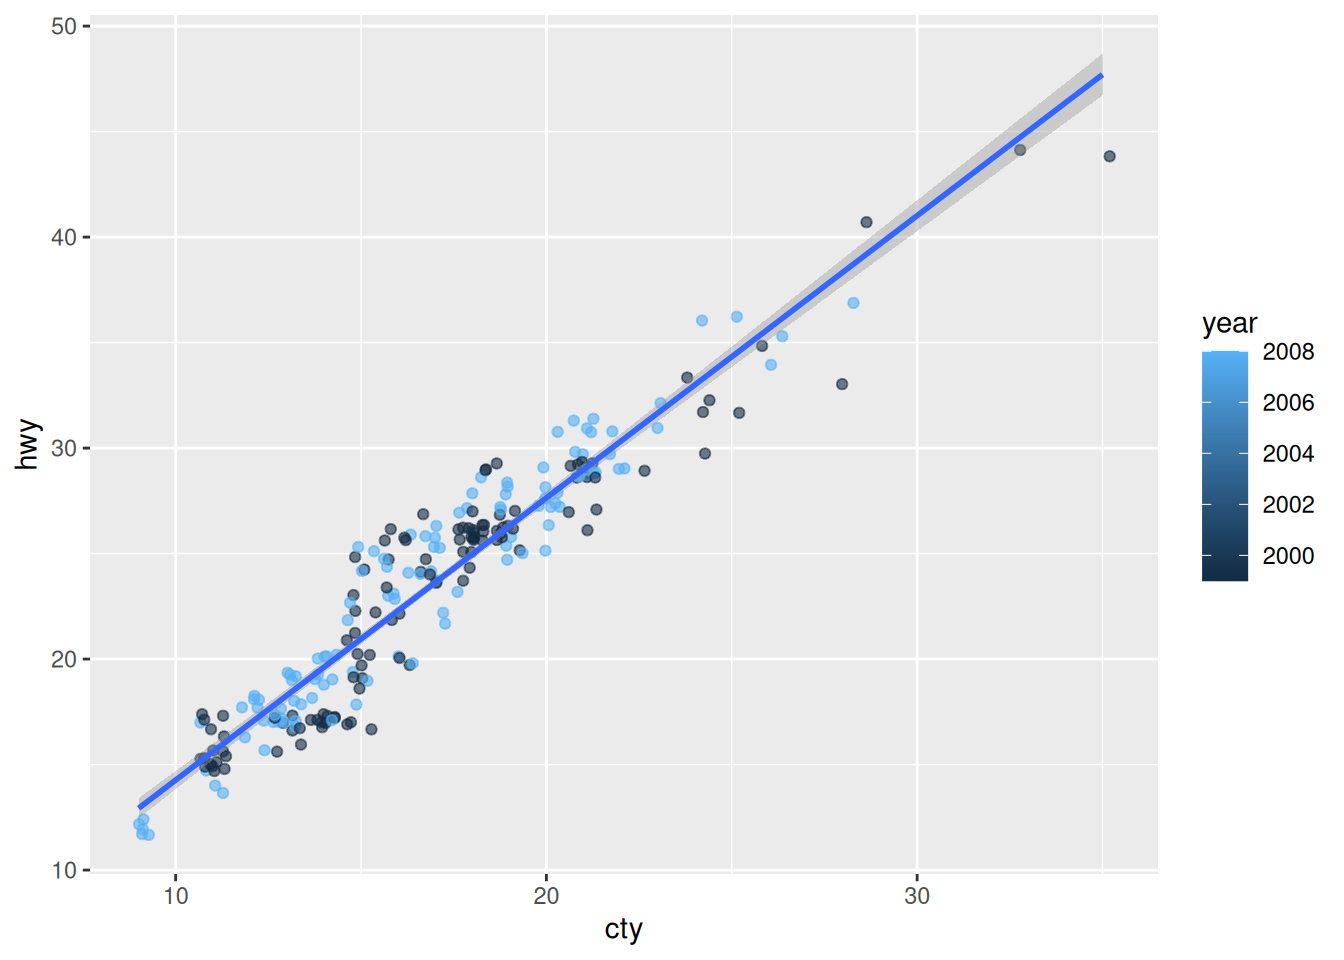
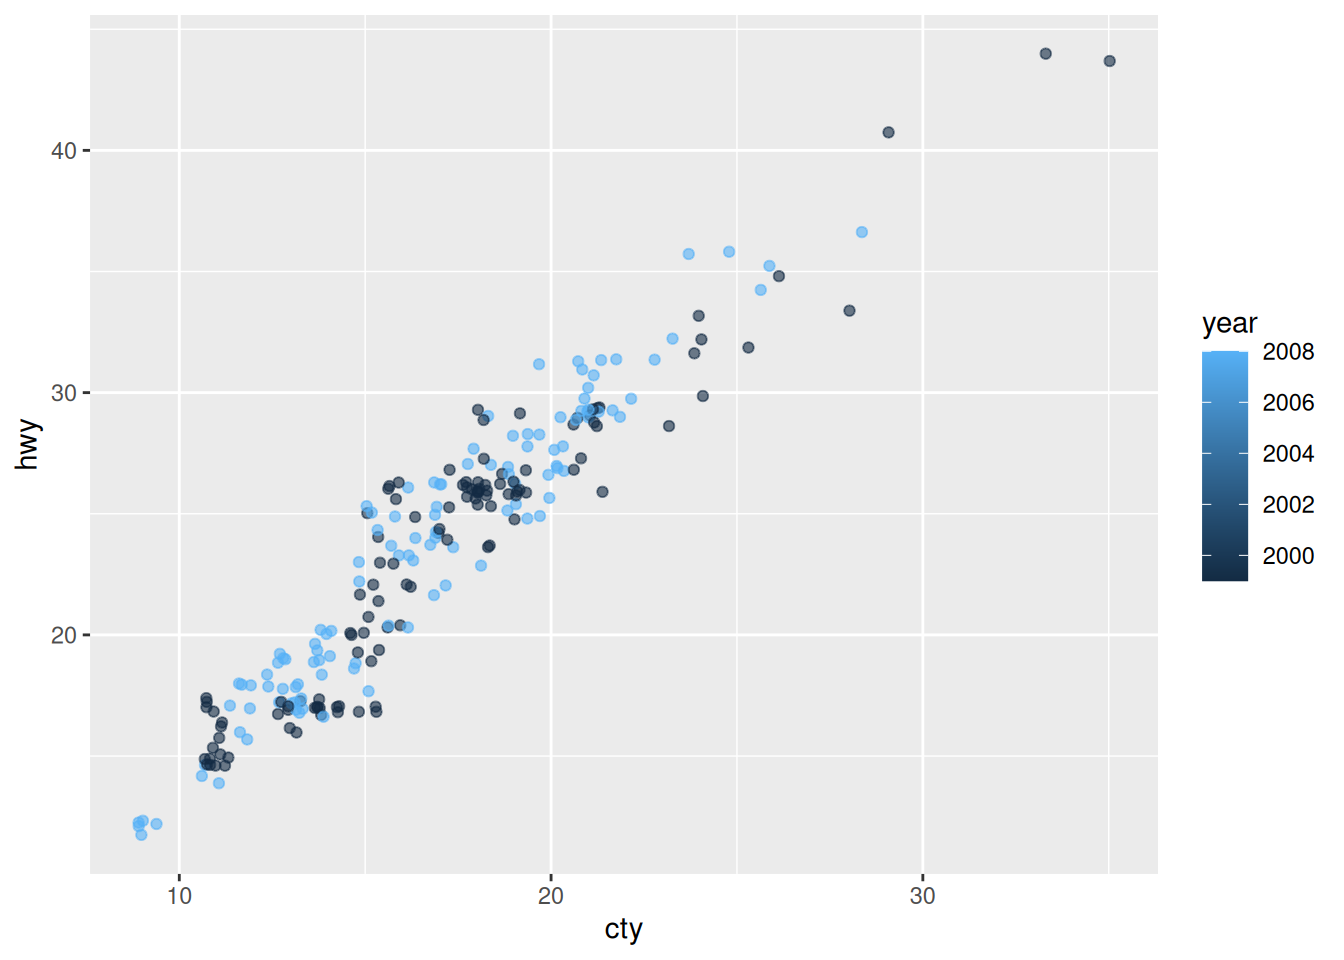
test

diff --git a/docs/posts/ggplot_work/index.html b/docs/posts/ggplot_work/index.html
@@ -192,7 +192,7 @@ pre > code.sourceCode > span > a:first-child::before { text-decoration: underlin
 
 
 
-<p>This week, I took a week long course on R. We spent our time learning and coding with ggplot.</p>
+<p>I took a week long course on R. We spent our time learning and coding with ggplot.</p>
 <div class="cell">
 <div class="code-copy-outer-scaffold"><div class="sourceCode cell-code" id="cb1"><pre class="sourceCode r code-with-copy"><code class="sourceCode r"><span id="cb1-1"><a href="#cb1-1" aria-hidden="true" tabindex="-1"></a><span class="fu">library</span>(ggplot2)</span>
 <span id="cb1-2"><a href="#cb1-2" aria-hidden="true" tabindex="-1"></a></span>
@@ -218,24 +218,34 @@ pre > code.sourceCode > span > a:first-child::before { text-decoration: underlin
 <span id="cb3-3"><a href="#cb3-3" aria-hidden="true" tabindex="-1"></a>  <span class="at">mapping =</span> <span class="fu">aes</span>(</span>
 <span id="cb3-4"><a href="#cb3-4" aria-hidden="true" tabindex="-1"></a>    <span class="at">x =</span> cty,</span>
 <span id="cb3-5"><a href="#cb3-5" aria-hidden="true" tabindex="-1"></a>    <span class="at">y =</span> hwy,</span>
-<span id="cb3-6"><a href="#cb3-6" aria-hidden="true" tabindex="-1"></a>    <span class="at">color =</span> year</span>
+<span id="cb3-6"><a href="#cb3-6" aria-hidden="true" tabindex="-1"></a>    <span class="at">color =</span> year,</span>
 <span id="cb3-7"><a href="#cb3-7" aria-hidden="true" tabindex="-1"></a>  ) </span>
-<span id="cb3-8"><a href="#cb3-8" aria-hidden="true" tabindex="-1"></a>) <span class="sc">+</span> <span class="fu">geom_point</span>(<span class="at">position =</span> <span class="st">"jitter"</span>, <span class="at">alpha =</span> <span class="fl">0.6</span>) <span class="sc">+</span> <span class="fu">geom_smooth</span>(<span class="at">method =</span> <span class="st">"lm"</span>)</span></code></pre></div><button title="Copy to Clipboard" class="code-copy-button"><i class="bi"></i></button></div>
-<div class="cell-output cell-output-stderr">
-<pre><code>`geom_smooth()` using formula = 'y ~ x'</code></pre>
-</div>
-<div class="cell-output cell-output-stderr">
-<pre><code>Warning: The following aesthetics were dropped during statistical transformation:
-colour.
-ℹ This can happen when ggplot fails to infer the correct grouping structure in
-  the data.
-ℹ Did you forget to specify a `group` aesthetic or to convert a numerical
-  variable into a factor?</code></pre>
-</div>
+<span id="cb3-8"><a href="#cb3-8" aria-hidden="true" tabindex="-1"></a>) <span class="sc">+</span> <span class="fu">geom_point</span>(<span class="at">position =</span> <span class="st">"jitter"</span>, <span class="at">alpha =</span> <span class="fl">0.6</span>) </span></code></pre></div><button title="Copy to Clipboard" class="code-copy-button"><i class="bi"></i></button></div>
 <div class="cell-output-display">
 <div>
 <figure class="figure">
 <p><img src="index_files/figure-html/unnamed-chunk-1-1.png" class="img-fluid figure-img" width="672"></p>
+</figure>
+</div>
+</div>
+</div>
+<div class="cell">
+<div class="code-copy-outer-scaffold"><div class="sourceCode cell-code" id="cb4"><pre class="sourceCode r code-with-copy"><code class="sourceCode r"><span id="cb4-1"><a href="#cb4-1" aria-hidden="true" tabindex="-1"></a><span class="fu">library</span>(ggplot2)</span>
+<span id="cb4-2"><a href="#cb4-2" aria-hidden="true" tabindex="-1"></a></span>
+<span id="cb4-3"><a href="#cb4-3" aria-hidden="true" tabindex="-1"></a><span class="fu">ggplot</span>(</span>
+<span id="cb4-4"><a href="#cb4-4" aria-hidden="true" tabindex="-1"></a>  <span class="at">data =</span> mpg,</span>
+<span id="cb4-5"><a href="#cb4-5" aria-hidden="true" tabindex="-1"></a>  <span class="at">mapping =</span> <span class="fu">aes</span>(</span>
+<span id="cb4-6"><a href="#cb4-6" aria-hidden="true" tabindex="-1"></a>    <span class="at">x =</span> cty,</span>
+<span id="cb4-7"><a href="#cb4-7" aria-hidden="true" tabindex="-1"></a>    <span class="at">y =</span> hwy,</span>
+<span id="cb4-8"><a href="#cb4-8" aria-hidden="true" tabindex="-1"></a>    <span class="at">color =</span> year,</span>
+<span id="cb4-9"><a href="#cb4-9" aria-hidden="true" tabindex="-1"></a>    <span class="at">shape =</span> drv</span>
+<span id="cb4-10"><a href="#cb4-10" aria-hidden="true" tabindex="-1"></a>  ) </span>
+<span id="cb4-11"><a href="#cb4-11" aria-hidden="true" tabindex="-1"></a>) <span class="sc">+</span> <span class="fu">geom_point</span>(<span class="at">position =</span> <span class="st">"jitter"</span>, <span class="at">alpha =</span> <span class="fl">0.6</span>) <span class="sc">+</span></span>
+<span id="cb4-12"><a href="#cb4-12" aria-hidden="true" tabindex="-1"></a>  <span class="fu">labs</span>(<span class="at">title =</span> <span class="st">"MPG while in the city vs highway"</span>)</span></code></pre></div><button title="Copy to Clipboard" class="code-copy-button"><i class="bi"></i></button></div>
+<div class="cell-output-display">
+<div>
+<figure class="figure">
+<p><img src="index_files/figure-html/unnamed-chunk-2-1.png" class="img-fluid figure-img" width="672"></p>
 </figure>
 </div>
 </div>

diff --git a/docs/index.html b/docs/index.html
@@ -271,7 +271,7 @@ Joshua Matamoros
 </a>
 </div>
 </div>
-<div class="quarto-post image-right" data-index="2" data-categories="cHJvamVjdCUyQ2NvZGU=" data-listing-date-sort="1787097600000" data-listing-file-modified-sort="1787162419181" data-listing-date-modified-sort="NaN" data-listing-reading-time-sort="1" data-listing-word-count-sort="117">
+<div class="quarto-post image-right" data-index="2" data-categories="cHJvamVjdCUyQ2NvZGU=" data-listing-date-sort="1787097600000" data-listing-file-modified-sort="1787163058360" data-listing-date-modified-sort="NaN" data-listing-reading-time-sort="1" data-listing-word-count-sort="107">
 <div class="thumbnail"><a href="./posts/ggplot_work/index.html" class="no-external">
 
 <p class="card-img-top"><img src="posts/ggplot_work/index_files/figure-html/unnamed-chunk-1-1.png"  class="thumbnail-image card-img"/></p>
@@ -289,7 +289,7 @@ Joshua Matamoros
 
 </div>
 <div class="delink listing-description"><a href="./posts/ggplot_work/index.html" class="no-external">
-This week, I took a week long course on R. We spent our time learning and coding with ggplot.
+I took a week long course on R. We spent our time learning and coding with ggplot.
 </a></div>
 </div>
 <div class="metadata">
